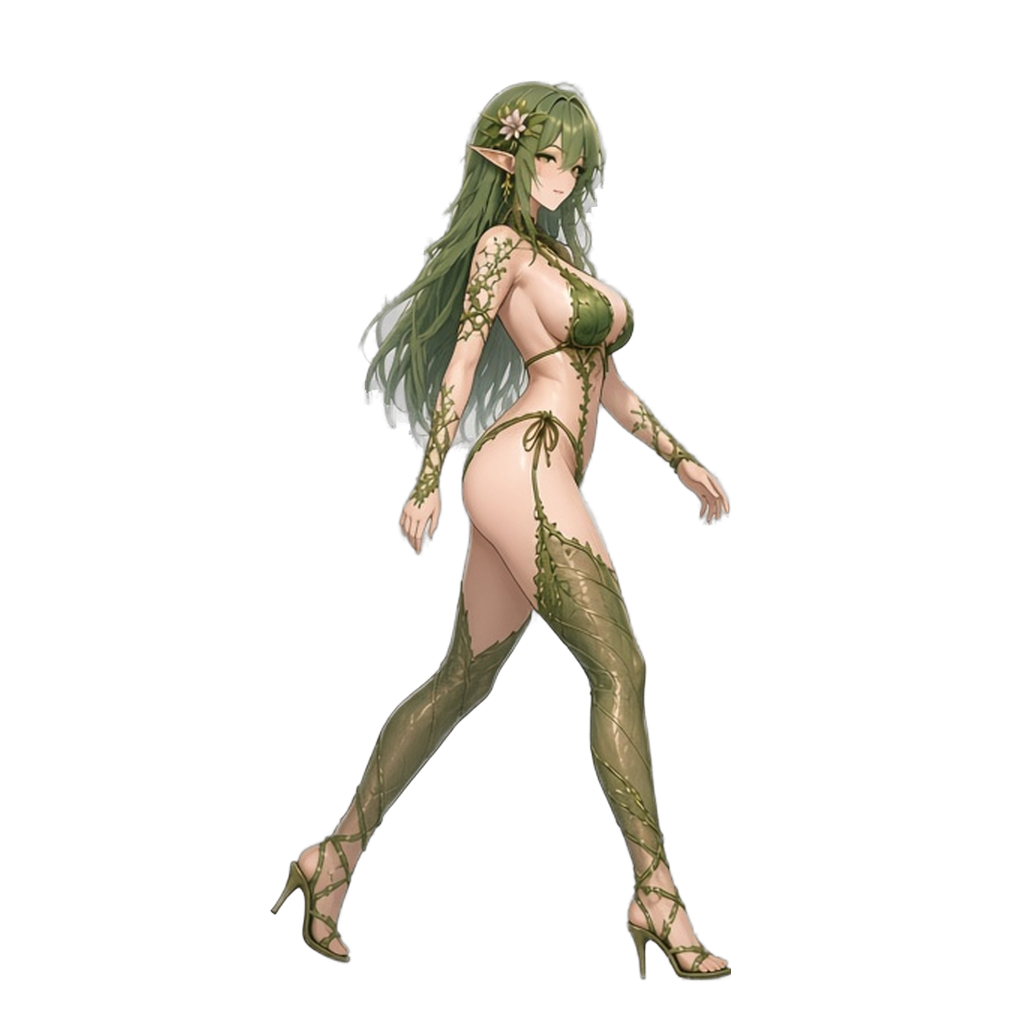
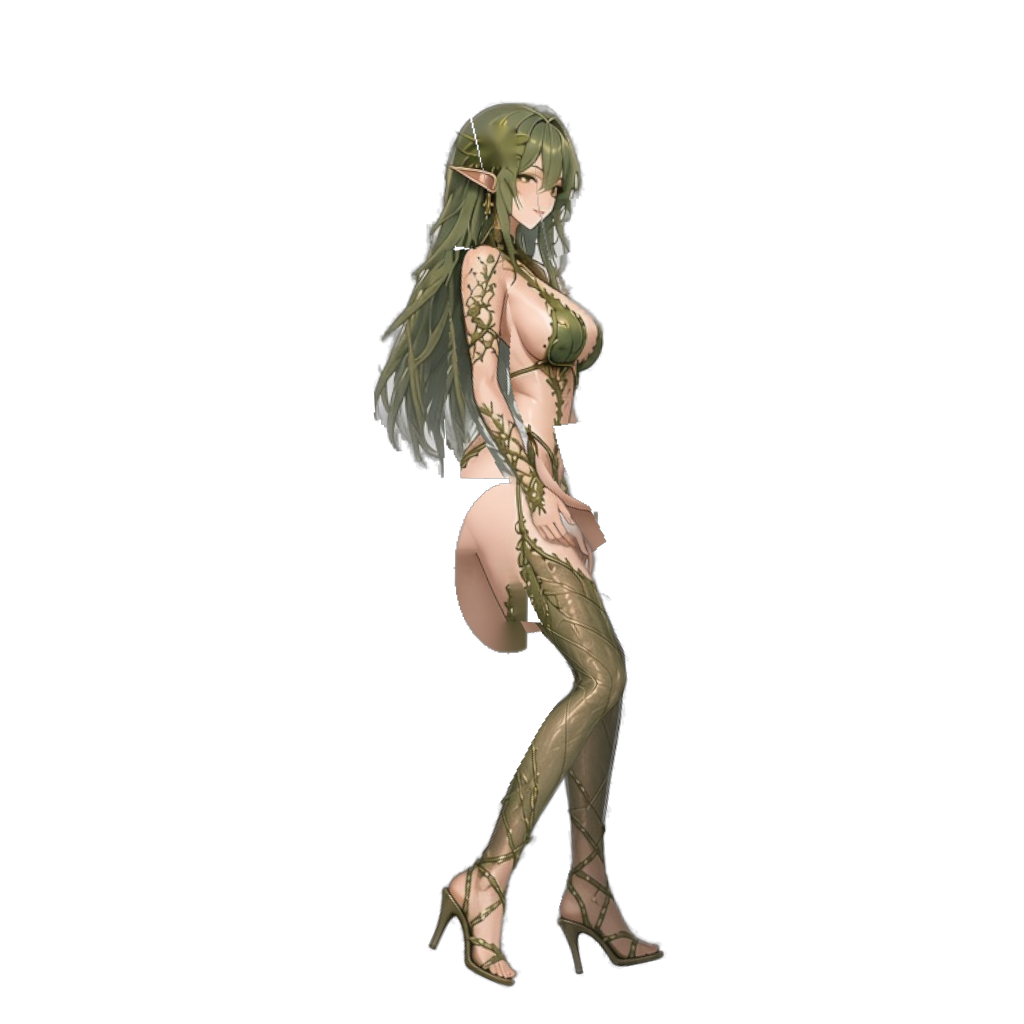
dryad walk v2: 2D bone rig

Changed region(s): [[0.25, 0.0625, 0.7188, 0.9688]]

diff --git a/dryad/review.md b/dryad/review.md
@@ -1,40 +1,32 @@
-# Review: dryad_walk_right (Phase 1)
+# Dryad walk right — review (v2, 2D bone rig)
 
-**Verdict: NOT READY.** The frames are clean, distinct, on-model and correctly framed, but the motion doesn't meet the walk spec (see the failures below).
+v1 (the generated-frame walk) is backed up in `v1/`.
 
-## Method actually used
-- **Pose guides:** stick-figure guides drawn in code from a walk-phase model (`src/guide.py`). Blue is the anatomical LEFT/far leg, red the RIGHT/near leg. One phase per frame, phase = i/16, frame 0 = L contact.
-- **Generation:**
-  - GenerateImage with the guide, the mirrored side-view crop and the accepted adjacent frames as references.
-  - 4 four-frame sheets (s0–s3, each 1280×720) gave frames 0–15.
-  - Frames **3, 5, 8, 9 and 12** were rejected and regenerated as single figures (1280×720): 3 and 12 had high back-kicks, 5 was airborne, 8 and 9 were near-copies of 0 and 1.
-  - Also rejected: a first sheet with 4 near-identical poses, and 4 earlier single keys that came out as the same stride.
-- **Extraction:**
-  - rembg (isnet-general-use with alpha matting) on each whole sheet.
-  - The slot boundaries are **measured, not an assumed grid**: the column-occupancy minimum within ±90 px of each quarter. Results are in `src/segments.json`; hair or a hand overlapped at some cuts (21–37 px).
-  - Stray fragments from neighbouring figures were removed with connected components.
-- **Real source resolution:** the figures are about **600 px tall** in the sheets and about 665 px in the singles. They're upscaled ×1.5 or ×1.35 (Lanczos) to about 900 px on the 1024 canvas. **Upscaling adds no detail.**
-- **Normalisation:** pivot (512, 980). Root x is the torso centre. Sheet frames keep their sheet ground line (y = 655 → 980); single frames are scaled by head-to-foot height to match.
+## Method
+- **Master:** one generated right-facing side frame. It is 1280x720 and the figure is about 660 px tall. Background removed with rembg (isnet). The far-side flower was painted out.
+- **Parts:** cut into 8 layers: back hair (strip mesh), far arm, far leg (thigh/shin/foot, darkened ×0.8), torso+head, leaf strands, near leg, near arm (upper arm + forearm/hand), front hair lock. Hidden overlaps were inpainted with OpenCV TELEA, and the back of the buttock was rebuilt as an ellipse.
+- **Rig:** pelvis, spine, neck, head; per leg hip→knee→ankle→ball; arms with shoulder/elbow/wrist; hair chain h0–h4 and leaf chain. Mesh skinning is linear-blend on subdivided plane grids, so knees and hips bend instead of hinging.
+- **Animation:** 16 frames × 42 ms = 0.672 s, looping. Keys: 0 L contact, 2 L settle, 4 R passing, 6 L push-off, 8 R contact, 10 R settle, 12 L passing, 14 R push-off.
+  - Legs use 2-bone IK. The planted foot slides back at a constant 15.1 px/frame (canvas), so there is no world foot skate.
+  - Stiletto heel-toe roll: heel strike −12°, flat, then heel-off about the ball up to +38°.
+  - Pelvis bob is 6 px, low at contact/settle and high at passing. Slight pelvis rotation, arm counter-swing, and hair/leaf lag.
+- **Output:** 1024x1024 RGBA with true alpha, pivot (512,980). The real art is a 660 px figure scaled ×1.374. Upscaling adds no detail.
 
-## Checks
-| check | result |
+## Checklist
+| Item | Result |
 |---|---|
-| Identity / costume | PASS: same face, hair, flower, tattoos, leggings and leaf heels in all 16 frames; no costume changes. |
-| Distinct frames | PASS: no duplicates. The closest pair (7 vs 9) differs by a mean abs RGBA of 3.2/255; adjacent pairs differ by 4.0–14.2. |
-| Alpha | PASS: true alpha from rembg, about 20% soft-edge pixels, no background halo seen on grey. |
-| Canvas / scale / pivot | PASS: 1024×1024, head top at y = 80–82 and feet at y = 975–981 in every frame. |
-| Clipping by canvas | PASS: nothing touches the canvas edge. |
-| Clipping by extraction | **FAIL (minor):** frame 014 lost the tip of the front hand at the slot cut. |
-| 8-key choreography | **FAIL:** the generator kept drifting back to a similar mid-stride. Contact/settle and push-off are weakly differentiated; clear passing poses appear only around 002, 005, 012 and 014. |
-| Anatomical L/R tracking | **FAIL / unverifiable:** both legs wear identical leggings and the model doesn't reliably keep near = right; several frames read as the same leg leading. |
-| Ground contact | PARTIAL: planted feet sit on the baseline (±3 px), but the planted foot does not stay fixed, so there's some **foot sliding** between frames from different sources. |
-| Vertical bob | **FAIL:** head height is constant (±1 px). No settle dip or passing rise. |
-| Hair / leaf secondary motion | **FAIL (weak):** the hair barely changes. |
-| Loop 015 → 000 | PARTIAL: no pop in scale or position, but the pose jump is about the same size as the other transitions, so the loop reads as jittery rather than seamless. |
-| Timing | 16 × 42 ms = 672 ms. The GIF stores 40 ms per frame (GIF timing is in 10 ms units); `preview.html` plays at the exact 42 ms. |
-| Flower side | Note: the generated frames show the flower on the near (right) side, whereas the sheet puts it on her left. |
+| Identity / costume preserved | PASS (same master on every frame) |
+| Legs alternate, far leg darker | PASS |
+| Ground contact / no skate | PASS (numerically verified) |
+| Loop 15→0 | PASS (phase-periodic) |
+| Alpha / canvas / pivot | PASS |
+| 16 distinct frames | PASS |
+| Joints / gaps | PARTIAL, see defects |
 
-## What would fix it
-- Regenerate per frame with a stronger pose lock (ControlNet OpenPose on a local or rented GPU).
-- Or paint or rig the legs: cut her into parts and animate with a 2D bone rig, which guarantees L/R and foot locking.
-- Then add bob and hair sway as an overlay pass.
+## Known defects
+1. There is a visible seam where the near thigh meets the rebuilt buttock in swing frames (about 4–7 and 12–15).
+2. The inpainted region over the back of the bikini bottom reads pale/whitish. Its fabric texture is lost.
+3. The far thigh top shows a dark notch at the hip during far-leg swing.
+4. The back-hair fill behind the near arm is a cloned band and slightly greyer than the real hair.
+5. The cut-out look: the body has no turn or volume change through the stride, and the upper body is a rigid sprite with mild rotation.
+6. There is a small stray sliver near the front of the waist in some frames.
